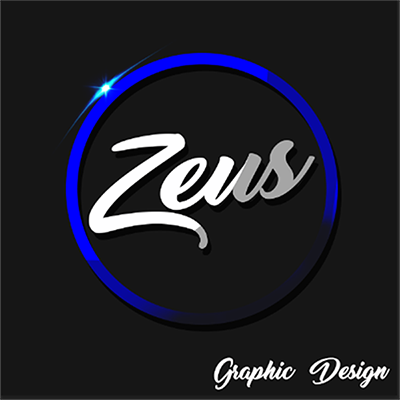
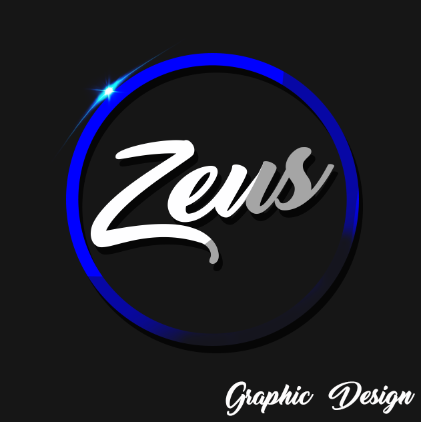
third

diff --git a/index.html b/index.html
@@ -157,8 +157,11 @@
               <img class="img-fluid" src="img/portfolio/Souk.png" alt="">
             </a>
             <div class="portfolio-caption">
+			<br>	
               <h4>Souk Medina</h4>
               <p class="text-muted">Plateform</p>
+			  
+			  
             </div>
           </div>
           
@@ -172,9 +175,15 @@
               <img class="img-fluid" src="img/portfolio/CarteViste Display.PNG" alt="">
             </a>
             <div class="portfolio-caption">
+			<br>
+			  <br>	
               <h4>Carte Visite</h4>
               <p class="text-muted">Design</p>
+			  
+			  
             </div>
+			
+			
           </div>
           <div class="col-md-4 col-sm-6 portfolio-item">
             <a class="portfolio-link" data-toggle="modal" href="#portfolioModal4">
@@ -183,41 +192,14 @@
                   <i class="fas fa-plus fa-3x"></i>
                 </div>
               </div>
-              <img class="img-fluid" src="img/portfolio/04-thumbnail.jpg" alt="">
+              <img class="img-fluid" src="img/portfolio/Zeus.PNG" alt="">
             </a>
             <div class="portfolio-caption">
-              <h4>Lines</h4>
-              <p class="text-muted">Branding</p>
+              <h4>Zeus</h4>
+              <p class="text-muted">Design</p>
             </div>
           </div>
-          <div class="col-md-4 col-sm-6 portfolio-item">
-            <a class="portfolio-link" data-toggle="modal" href="#portfolioModal5">
-              <div class="portfolio-hover">
-                <div class="portfolio-hover-content">
-                  <i class="fas fa-plus fa-3x"></i>
-                </div>
-              </div>
-              <img class="img-fluid" src="img/portfolio/05-thumbnail.jpg" alt="">
-            </a>
-            <div class="portfolio-caption">
-              <h4>Southwest</h4>
-              <p class="text-muted">Website Design</p>
-            </div>
-          </div>
-          <div class="col-md-4 col-sm-6 portfolio-item">
-            <a class="portfolio-link" data-toggle="modal" href="#portfolioModal6">
-              <div class="portfolio-hover">
-                <div class="portfolio-hover-content">
-                  <i class="fas fa-plus fa-3x"></i>
-                </div>
-              </div>
-              <img class="img-fluid" src="img/portfolio/06-thumbnail.jpg" alt="">
-            </a>
-            <div class="portfolio-caption">
-              <h4>Window</h4>
-              <p class="text-muted">Photography</p>
-            </div>
-          </div>
+          
         </div>
       </div>
     </section>
@@ -240,11 +222,11 @@
                 </div>
                 <div class="timeline-panel">
                   <div class="timeline-heading">
-                    <h4>Analyse</h4>
-                    <h4 class="subheading">Our Humble Beginnings</h4>
+                    <h4>Accompagnement</h4>
+                    <h4 class="subheading"></h4>
                   </div>
                   <div class="timeline-body">
-                    <p class="text-muted">Lorem ipsum dolor sit amet, consectetur adipisicing elit. Sunt ut voluptatum eius sapiente, totam reiciendis temporibus qui quibusdam, recusandae sit vero unde, sed, incidunt et ea quo dolore laudantium consectetur!</p>
+                    <p class="text-muted">Notre première rencontre vous offre une réflexion professionnelle sur votre projet. Nous établissons ensemble une liste priorisée des fonctionnalités de votre produit.</p>
                   </div>
                 </div>
               </li>
@@ -254,11 +236,11 @@
                 </div>
                 <div class="timeline-panel">
                   <div class="timeline-heading">
-                    <h4>March 2011</h4>
-                    <h4 class="subheading">An Agency is Born</h4>
+                    <h4>Devis Détaillé</h4>
+                    <h4 class="subheading"></h4>
                   </div>
                   <div class="timeline-body">
-                    <p class="text-muted">Lorem ipsum dolor sit amet, consectetur adipisicing elit. Sunt ut voluptatum eius sapiente, totam reiciendis temporibus qui quibusdam, recusandae sit vero unde, sed, incidunt et ea quo dolore laudantium consectetur!</p>
+                    <p class="text-muted">Un devis gratuit vous est envoyé sous quelques jours et vous permet d'estimer les charges et le temps de développement nécessaires à votre projet.</p>
                   </div>
                 </div>
               </li>
@@ -268,11 +250,11 @@
                 </div>
                 <div class="timeline-panel">
                   <div class="timeline-heading">
-                    <h4>December 2012</h4>
-                    <h4 class="subheading">Transition to Full Service</h4>
+                    <h4>Développement</h4>
+                    <h4 class="subheading"></h4>
                   </div>
                   <div class="timeline-body">
-                    <p class="text-muted">Lorem ipsum dolor sit amet, consectetur adipisicing elit. Sunt ut voluptatum eius sapiente, totam reiciendis temporibus qui quibusdam, recusandae sit vero unde, sed, incidunt et ea quo dolore laudantium consectetur!</p>
+                    <p class="text-muted">Chaque étape de développement dure de 2 à 4 semaines. Elle comprend les fonctionnalités que vous avez ciblées comme prioritaires et promet un livrable fonctionnel à chaque fin d'étape.</p>
                   </div>
                 </div>
               </li>
@@ -282,11 +264,11 @@
                 </div>
                 <div class="timeline-panel">
                   <div class="timeline-heading">
-                    <h4>July 2014</h4>
-                    <h4 class="subheading">Phase Two Expansion</h4>
+                    <h4>Maintenance</h4>
+                    <h4 class="subheading"></h4>
                   </div>
                   <div class="timeline-body">
-                    <p class="text-muted">Lorem ipsum dolor sit amet, consectetur adipisicing elit. Sunt ut voluptatum eius sapiente, totam reiciendis temporibus qui quibusdam, recusandae sit vero unde, sed, incidunt et ea quo dolore laudantium consectetur!</p>
+                    <p class="text-muted">Notre maintenance active vous assure le bon fonctionnement de votre produit. Ainsi, votre projet bénéficie d'un accompagnement complet.</p>
                   </div>
                 </div>
               </li>
@@ -313,7 +295,30 @@
           </div>
         </div>
         <div class="row">
-          
+          <div class="col-sm-4">
+            <div class="team-member">
+              <img class="mx-auto rounded-circle" src="img/team/Rabiy.jpg" alt="">
+              <h4>Bennour Rabiy</h4>
+              <p class="text-muted">Co-Founder & Architect </p>
+              <ul class="list-inline social-buttons">
+                <li class="list-inline-item">
+                  <a href="#">
+                    <i class="fab fa-twitter"></i>
+                  </a>
+                </li>
+                <li class="list-inline-item">
+                  <a href="https://www.facebook.com/rabiy.bennour.7">
+                    <i class="fab fa-facebook-f"></i>
+                  </a>
+                </li>
+                <li class="list-inline-item">
+                  <a href="https://www.linkedin.com/in/bennour-rabiy-763455142/">
+                    <i class="fab fa-linkedin-in"></i>
+                  </a>
+                </li>
+              </ul>
+            </div>
+          </div>
           <div class="col-sm-4">
             <div class="team-member">
               <img class="mx-auto rounded-circle" src="img/team/Habib.jpg" alt="">
@@ -338,30 +343,7 @@
               </ul>
             </div>
           </div>
-          <div class="col-sm-4">
-            <div class="team-member">
-              <img class="mx-auto rounded-circle" src="img/team/Rabiy.jpg" alt="">
-              <h4>Bennour Rabiy</h4>
-              <p class="text-muted">Architect</p>
-              <ul class="list-inline social-buttons">
-                <li class="list-inline-item">
-                  <a href="#">
-                    <i class="fab fa-twitter"></i>
-                  </a>
-                </li>
-                <li class="list-inline-item">
-                  <a href="https://www.facebook.com/rabiy.bennour.7">
-                    <i class="fab fa-facebook-f"></i>
-                  </a>
-                </li>
-                <li class="list-inline-item">
-                  <a href="https://www.linkedin.com/in/bennour-rabiy-763455142/">
-                    <i class="fab fa-linkedin-in"></i>
-                  </a>
-                </li>
-              </ul>
-            </div>
-          </div>
+          
 		  <div class="col-sm-4">
             <div class="team-member">
               <img class="mx-auto rounded-circle" src="img/team/Ala.jpg" alt="">
@@ -419,34 +401,6 @@
       </div>
     </section>
 
-    <!-- Clients -->
-    <section class="py-5">
-      <div class="container">
-        <div class="row">
-          <div class="col-md-3 col-sm-6">
-            <a href="#">
-              <img class="img-fluid d-block mx-auto" src="img/logos/envato.jpg" alt="">
-            </a>
-          </div>
-          <div class="col-md-3 col-sm-6">
-            <a href="#">
-              <img class="img-fluid d-block mx-auto" src="img/logos/designmodo.jpg" alt="">
-            </a>
-          </div>
-          <div class="col-md-3 col-sm-6">
-            <a href="#">
-              <img class="img-fluid d-block mx-auto" src="img/logos/themeforest.jpg" alt="">
-            </a>
-          </div>
-          <div class="col-md-3 col-sm-6">
-            <a href="#">
-              <img class="img-fluid d-block mx-auto" src="img/logos/creative-market.jpg" alt="">
-            </a>
-          </div>
-        </div>
-      </div>
-    </section>
-
     <!-- Contact -->
     <section id="contact">
       <div class="container">
@@ -454,7 +408,7 @@
           <div class="col-lg-12 text-center">
             <h2 class="section-heading text-uppercase">Contact Us</h2>
             <h3 class="section-subheading text-muted">
-Do you need information, assistance? Our priority is to provide you with a fast and quality answer when you need it. Find here our different ways of contact.</h3>
+            Avez-vous besoin d'informations, d'assistance? Notre priorité est de vous fournir une réponse rapide et de qualité lorsque vous en avez besoin. Retrouvez ici nos différentes façons de contacter.</h3>
           </div>
         </div>
         <div class="row">
@@ -586,7 +540,7 @@ Do you need information, assistance? Our priority is to provide you with a fast 
                   <h2 class="text-uppercase">NeoXam RH</h2>
                   <p class="item-intro text-muted"></p>
                   <img class="img-fluid d-block mx-auto" src="img/portfolio/dd.PNG" alt="">
-                  <p>Créer une solution de digitalisation des outils du département Rh ansi kel la dégtalisation du processus du recrutement a partir des réseaux sociaux</p>
+                  <p>Créer une solution de digitalisation des outils du département Rh ansi que la dégtalisation du processus du recrutement a partir des réseaux sociaux</p>
                   <ul class="list-inline">
                     <li>Date: December 2018</li>
                     <li>Client: NeoXam</li>
@@ -617,14 +571,14 @@ Do you need information, assistance? Our priority is to provide you with a fast 
               <div class="col-lg-8 mx-auto">
                 <div class="modal-body">
                   <!-- Project Details Go Here -->
-                  <h2 class="text-uppercase">Project Name</h2>
-                  <p class="item-intro text-muted">Lorem ipsum dolor sit amet consectetur.</p>
-                  <img class="img-fluid d-block mx-auto" src="img/portfolio/03-full.jpg" alt="">
-                  <p>Use this area to describe your project. Lorem ipsum dolor sit amet, consectetur adipisicing elit. Est blanditiis dolorem culpa incidunt minus dignissimos deserunt repellat aperiam quasi sunt officia expedita beatae cupiditate, maiores repudiandae, nostrum, reiciendis facere nemo!</p>
+                  <h2 class="text-uppercase">Carte Visite</h2>
+                  <p class="item-intro text-muted">Design</p>
+                  <img class="img-fluid d-block mx-auto" src="img/portfolio/CarteViste Display.PNG" alt="">
+                  <p>une Carte Visite Pour un kiné</p>
                   <ul class="list-inline">
-                    <li>Date: January 2017</li>
-                    <li>Client: Finish</li>
-                    <li>Category: Identity</li>
+                    <li>Date: January 2019</li>
+                    <li>Client: Kiné</li>
+                    <li>Category: Design</li>
                   </ul>
                   <button class="btn btn-primary" data-dismiss="modal" type="button">
                     <i class="fas fa-times"></i>
@@ -651,10 +605,10 @@ Do you need information, assistance? Our priority is to provide you with a fast 
               <div class="col-lg-8 mx-auto">
                 <div class="modal-body">
                   <!-- Project Details Go Here -->
-                  <h2 class="text-uppercase">Project Name</h2>
-                  <p class="item-intro text-muted">Lorem ipsum dolor sit amet consectetur.</p>
-                  <img class="img-fluid d-block mx-auto" src="img/portfolio/04-full.jpg" alt="">
-                  <p>Use this area to describe your project. Lorem ipsum dolor sit amet, consectetur adipisicing elit. Est blanditiis dolorem culpa incidunt minus dignissimos deserunt repellat aperiam quasi sunt officia expedita beatae cupiditate, maiores repudiandae, nostrum, reiciendis facere nemo!</p>
+                  <h2 class="text-uppercase">Zeus</h2>
+                  <p class="item-intro text-muted">Design</p>
+                  <img class="img-fluid d-block mx-auto" src="img/portfolio/Zeus.PNG" alt="">
+                  <p></p>
                   <ul class="list-inline">
                     <li>Date: January 2017</li>
                     <li>Client: Lines</li>
